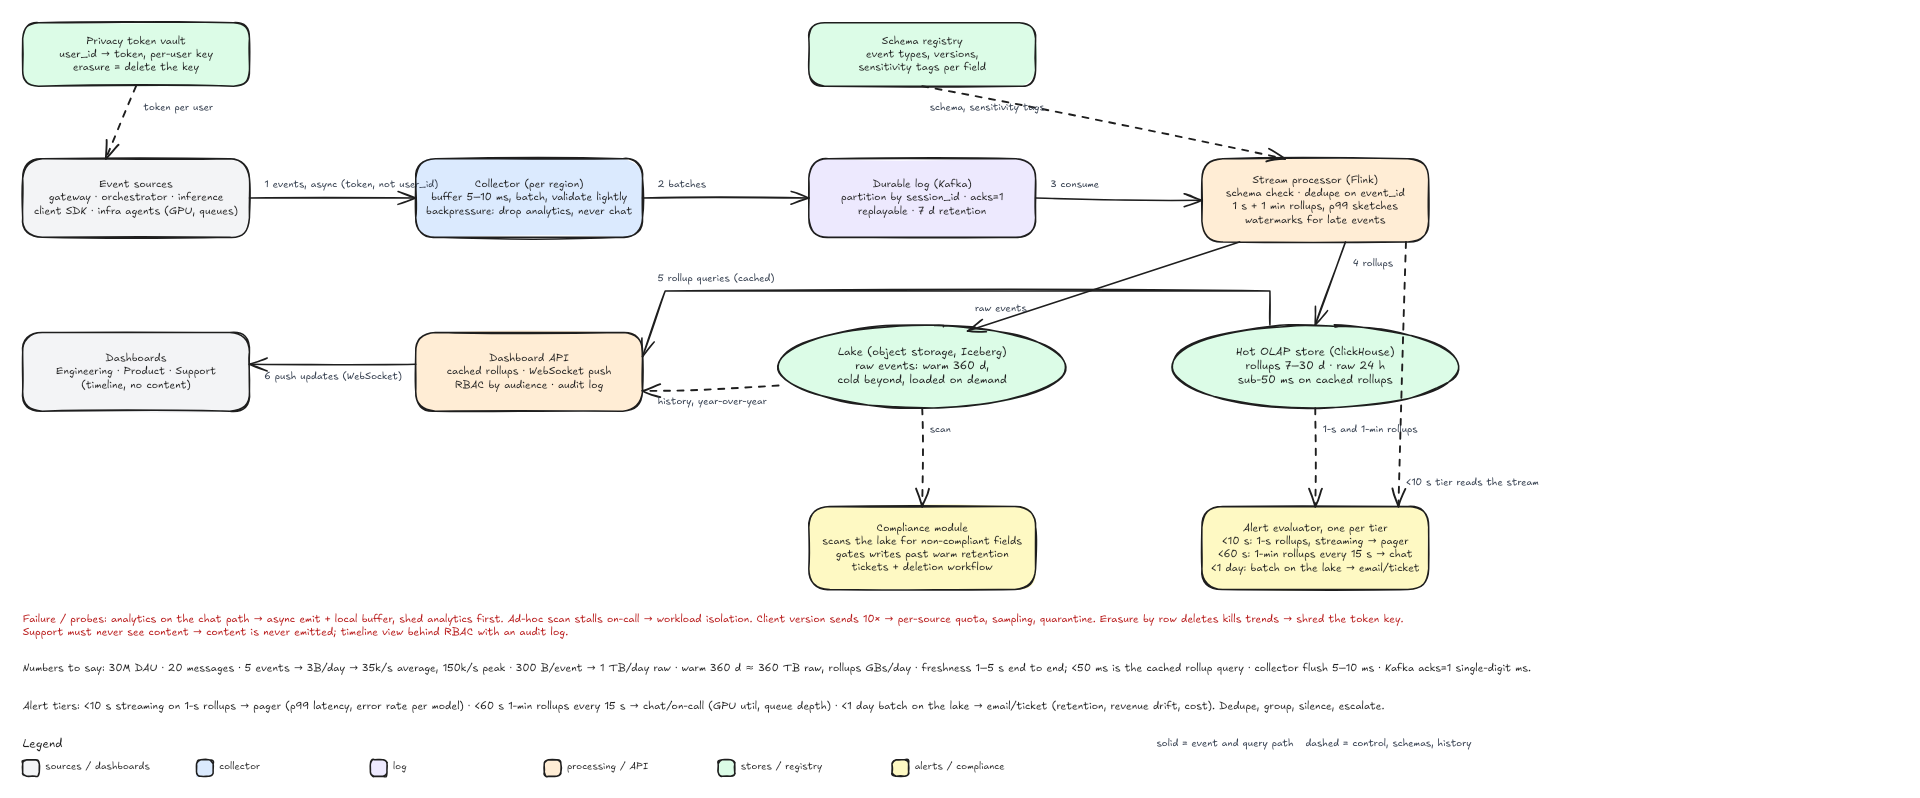
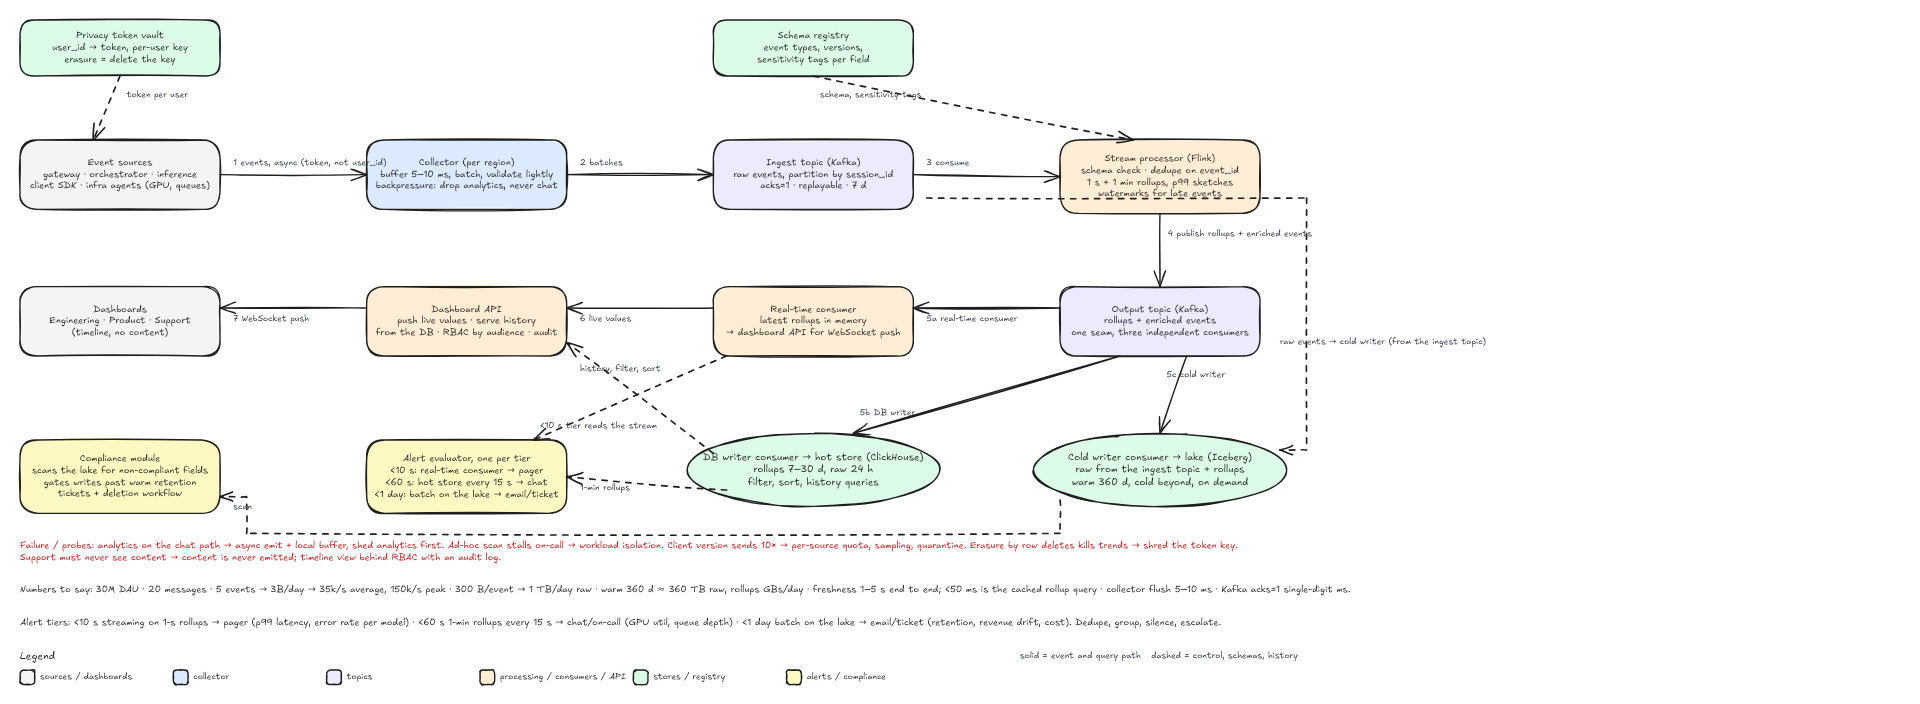
Blog update: 2026-09-30 06:45:35 from system76
Summary of changes:
 .../teach/systems/chat-analytics-answer-board.png  | Bin 243293 -> 235203 bytes
 .../design-an-ai-chat-analytics-dashboard.md       |   6 +++---
 .../systems/chat-analytics-answer-board.excalidraw |   2 +-
 .../teach/systems/chat-analytics-cheat-sheet.pdf   | Bin 297979 -> 297979 bytes
 4 files changed, 4 insertions(+), 4 deletions(-)

diff --git a/content/teach/systems/design-an-ai-chat-analytics-dashboard.md b/content/teach/systems/design-an-ai-chat-analytics-dashboard.md
@@ -42,7 +42,7 @@ The API is one endpoint per need. Events in, as a batch, always accepted, idempo
 
 ## The answer
 
-1. **One event, end to end.** A service emits an event carrying the user's token. The collector buffers five to ten milliseconds, batches, validates lightly and writes to Kafka, partitioned by session, with a single acknowledgement. A stream processor checks the schema, dedupes on event id, computes one-second and one-minute rollups with percentile sketches, and handles late events with watermarks. Rollups land in a hot OLAP store for the last few weeks; raw events land in the lake, warm for a year and cold beyond, loaded on demand for year-over-year questions. The dashboard API serves cached rollups and pushes updates over a socket. One alert evaluator per tier reads the rollups and routes notifications.
+1. **One event, end to end.** A service emits an event carrying the user's token. The collector buffers five to ten milliseconds, batches, validates lightly and writes to an ingest topic, partitioned by session, with a single acknowledgement. A stream processor checks the schema, dedupes on event id, computes one-second and one-minute rollups with percentile sketches, handles late events with watermarks, and publishes rollups and enriched events to one output topic. Three consumers read that topic independently: a real-time consumer holds the latest values in memory and feeds the dashboard API, which pushes over a socket; a database writer lands rollups in a hot store that serves filter, sort and history; a cold writer lands raw events (from the ingest topic) and rollups in the lake, warm for a year and cold beyond. One alert evaluator per tier reads the real-time consumer, the hot store or the lake. The point of the topic between processor and sinks: one seam, each sink at its own pace and replayable, and a slow lake write can never back up the processor.
 2. **Isolation.** The emit is asynchronous with a local buffer. Under pressure the collector drops analytics, never a chat request. The dashboard's availability is its own: if the OLAP store is down, chat does not notice.
 3. **Real time, honestly.** Ingest: client batching with a short flush, gRPC to a collector in the same region, an in-memory ring buffer, Kafka with one acknowledgement, no synchronous validation on the hot path. Serve: rollups held in memory, incremental streaming windows, materialised views, push instead of polling. End-to-end freshness is one to five seconds. Under 50 ms is the serving query.
 4. **Privacy that survives erasure.** The options and why they lose: scrubbing personal data with patterns at write time is brittle; hashing the user id with one global salt is reversible and cannot be erased; deleting rows on request destroys the aggregates. The answer is a per-user token derived from a per-user key. Analytics stores only the token. To erase a person, delete the key: every row becomes unattributable within the deadline, and the counts and trends stay. The goal is non-attributability, not protection from an insider who holds the vault. Chat content is never emitted, fields carry sensitivity tags, retention is tiered, and a compliance job scans the lake for anything that slipped through, raises tickets and drives deletions.
@@ -52,7 +52,7 @@ The API is one endpoint per need. Events in, as a batch, always accepted, idempo
 
 ## The board
 
-The pipeline runs across the top, the stores sit in the middle, the dashboards on the left, and the evaluators and the compliance module below. Solid arrows are the event and query path; dashed are control, schemas and history.
+The pipeline runs across the top; the output topic and its three consumers sit in the middle, with the dashboards on the left; the hot store, the lake, the evaluators and the compliance module sit below. Solid arrows are the event and query path; dashed are control, schemas, history and the raw feed into the lake.
 
 {{< excalidraw id="NwUIiRIJH89tGbNIXzte" png="/teach/systems/chat-analytics-answer-board.png" title="Analytics dashboard for an AI chat app, the answer" src="/teach/systems/chat-analytics-answer-board.excalidraw" >}}
 
@@ -70,7 +70,7 @@ The pipeline runs across the top, the stores sit in the middle, the dashboards o
 - **Three personas, three freshness targets**: seconds, minutes, daily.
 - **Fire-and-forget emit; shed analytics before chat.** Isolation is a requirement, not a nicety.
 - **The event envelope**: ids, both timestamps, source, schema version, correlation ids, then dims, measures, attributes, sensitivity tags.
-- **Roll up early**: one-second and one-minute rollups feed the dashboards and the pager tier.
+- **Roll up early, then one output topic and three consumers**: real-time push, the queryable store, the lake.
 - **Per-user token, crypto-shredding.** Erasure deletes the key; aggregates survive.
 - **One evaluator per alert tier**: under 10 s from the stream, under 60 s from the hot store, under a day from the lake.
 - **3B events a day is 35k a second, 150k at peak, a terabyte a day raw.**
